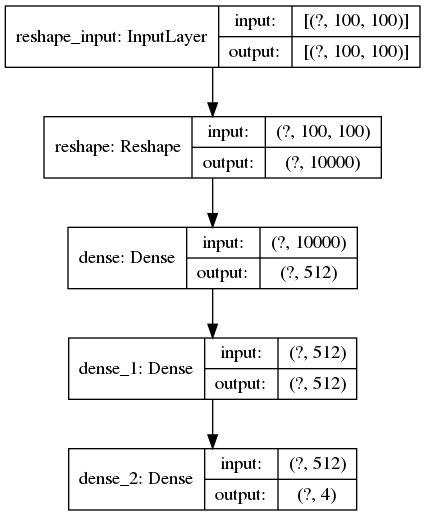
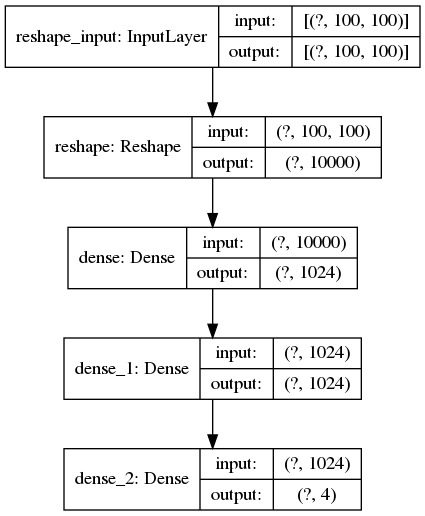
Best model so far

Changed region(s): [[0.1224, 0.6512, 0.8565, 0.7752], [0.1224, 0.8682, 0.8565, 0.9922], [0.6424, 0.4961, 0.7953, 0.5581]]

diff --git a/train.py b/train.py
@@ -50,14 +50,8 @@ else:
 # Get Images
 train_image_generator = ImageDataGenerator(
     rescale=1. / 255,
-    horizontal_flip=True,
-    # vertical_flip=True,
-    # rotation_range=45,
-    # zoom_range=0.5,
-    # shear_range=0.5,
-    # width_shift_range=0.5,
-    # height_shift_range=0.5,)
-    )
+    horizontal_flip=True
+)
 
 validation_image_generator = ImageDataGenerator(
     rescale=1. / 255)
@@ -82,9 +76,9 @@ val_data_gen = validation_image_generator.flow_from_directory(
 
 # Generate the model
 model = Sequential([
-    Reshape((IMG_HEIGHT * IMG_WIDTH,), input_shape=(IMG_HEIGHT, IMG_WIDTH,)),
-    Dense(units=512, activation='relu'),
-    Dense(units=512, activation='relu'),
+    Reshape((IMG_HEIGHT * IMG_WIDTH,), input_shape=(IMG_HEIGHT, IMG_WIDTH,)),  # Converts the source to a 784 array
+    Dense(units=1024, activation='relu'),
+    Dense(units=1024, activation='relu'),
     Dense(total_classes, activation='softmax')
 ])
 
@@ -102,10 +96,10 @@ plot_model(model, to_file=model_plot_file, show_shapes='true', show_layer_names=
 # Train the model
 history = model.fit(
     x=train_data_gen,
-    steps_per_epoch=total_train // batch_size,
+    steps_per_epoch=1000,  # (total_train // batch_size) * 2,
     epochs=epochs,
     validation_data=val_data_gen,
-    validation_steps=total_val // batch_size
+    validation_steps=200,  # (total_val // batch_size) * 2
 )
 
 # Save the model results
